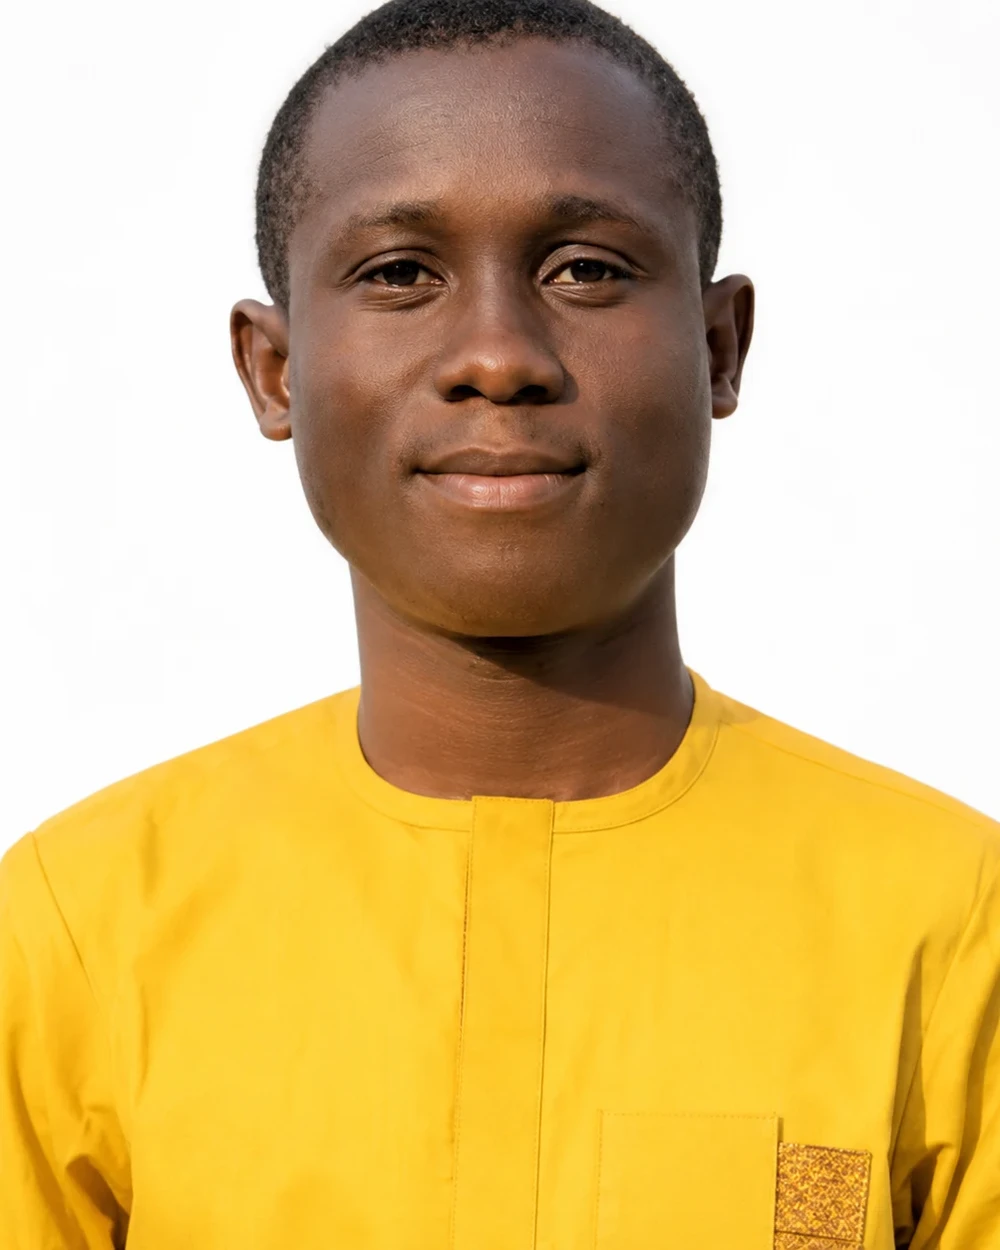
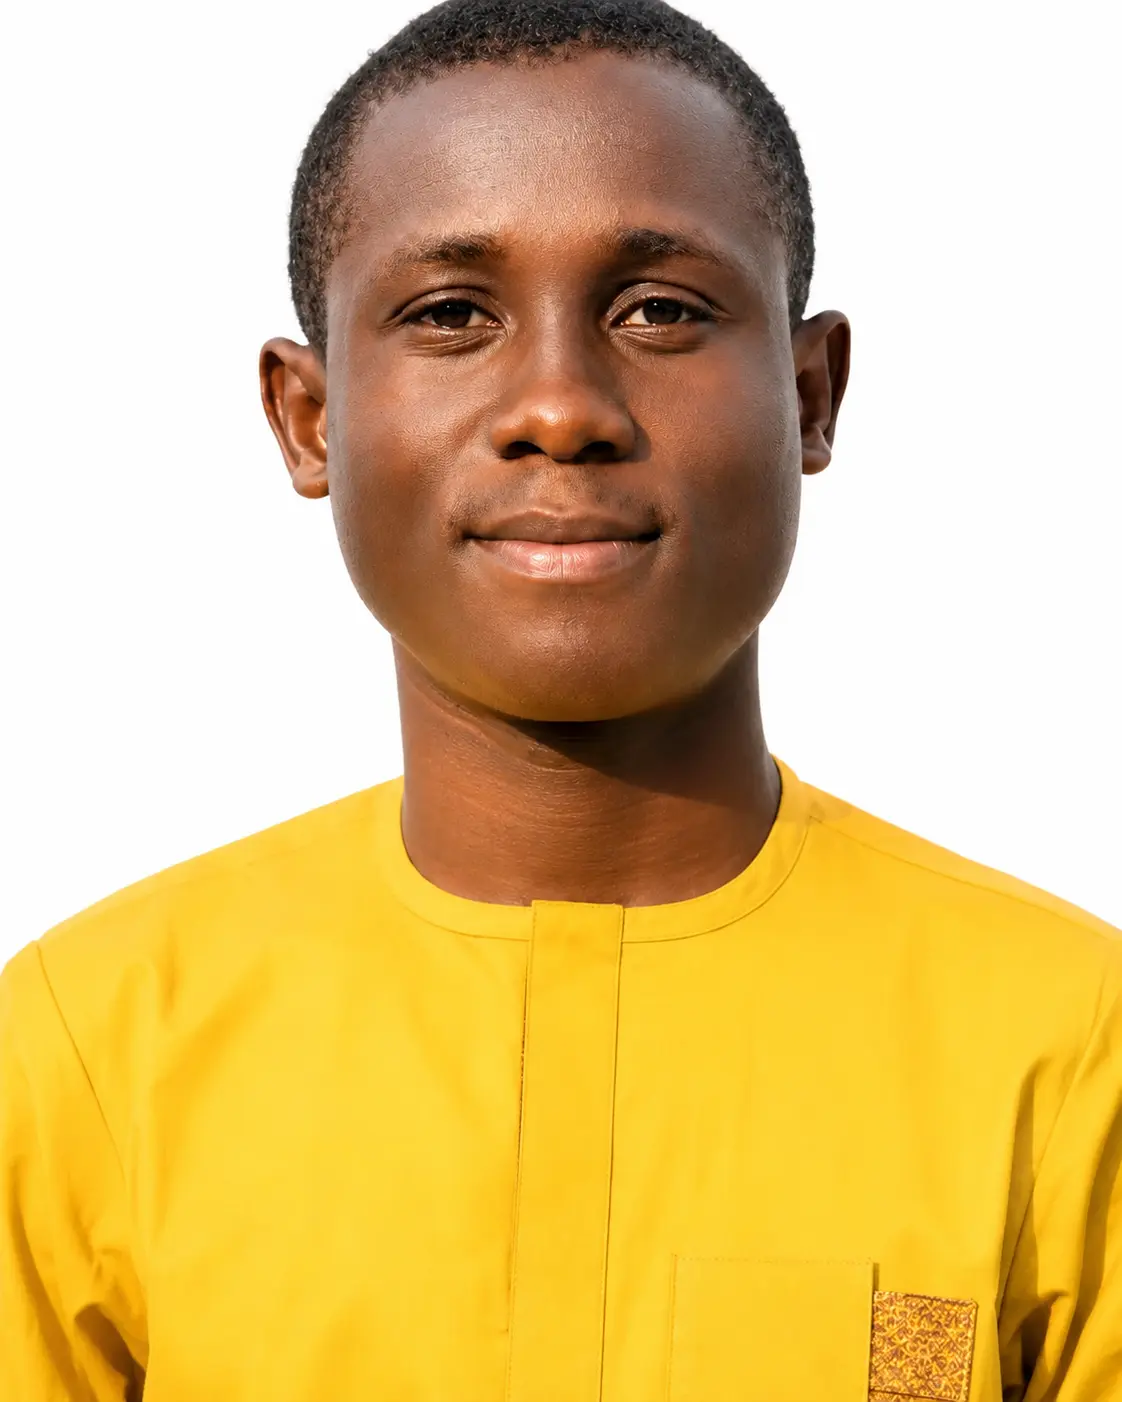
team update lastest

diff --git a/src/pages/About.tsx b/src/pages/About.tsx
@@ -17,21 +17,22 @@ const fadeUp = (delay = 0) => ({
 // TODO: Replace placeholder image (team_paul.webp) and bios with real team member details.
 const team = [
   {
-    name: "Engr. [Full Name]",
-    title: "Senior Structural Engineer",
-    image: "/images/webp/team_paul.webp",
+    name: "Engr. Jesuborn Obimba-Wogu",
+    title: "Geotechnical Engineer",
+    image: "/images/webp/Jesuborn.webp",
+    imagePosition: "center 10%",
     certs: ["COREN", "MNSE"],
-    specialty: "Structural Engineering",
-    bio: "Brings over 8 years of experience delivering structural designs for residential, commercial, and industrial projects across Nigeria. Specializes in reinforced concrete and steel structure design, with a strong focus on code compliance and constructability. Has contributed to several landmark KOA projects from concept through completion.",
+    specialty: "Geotechnical Engineering & Consultancy",
+    bio: "Jesuborn Obimba-Wogu is a Geotechnical Engineer with a B.Eng. in Civil Engineering and an M.Eng. in Soil and Geotechnical Engineering from Michael Okpara University of Agriculture, Umudike, plus an M.Eng. in Geomechanics from the University of Grenoble Alpes, France. He specializes in geotechnical investigation, soil mechanics, risk assessment, and engineering consultancy across KOA's structural and civil projects. He is a Member of the Nigerian Society of Engineers (MNSE) and a Registered Engineer (R. Eng.).",
   },
-  {
+   {
     name: "Engr. Christian Attai Idoko",
     title: "Structural & Quality Control Engineer",
-    image: "/images/webp/idoko1.webp",
+    image: "/images/webp/idoko.webp",
     imagePosition: "center 8%",
     certs: ["COREN", "NSE"],
     specialty: "Structural, Civil & Facade Engineering",
-    bio: "Engr. Christian Attai Idoko is a Structural Engineer and Quality Control Engineer with 6 years of experience specializing in structural works, façade installation, and fabrication. He brings hands-on expertise in project execution, quality assurance, and compliance with engineering standards and safety regulations. He holds a Bachelor of Engineering in Civil Engineering from the University of Agriculture, Makurdi, Nigeria (2020), and is certified with COREN and NSE.",
+    bio: "Engr. Christian Attai Idoko is a Structural Engineer and Quality Control Engineer with 6 years of experience specializing in structural works, façade installation, and fabrication. He brings hands-on expertise in project execution, quality assurance, and compliance with engineering standards and safety regulations across residential and commercial sites. He holds a Bachelor of Engineering in Civil Engineering from the University of Agriculture, Makurdi, Nigeria, and is certified with COREN and NSE.",
   },
   {
     name: "Patrick Amaibi",
@@ -40,7 +41,7 @@ const team = [
     imagePosition: "center 12%",
     certs: ["GMNSE", "MNIEE", "MIAENG"],
     specialty: "Civil & Environmental Engineering",
-    bio: "Patrick Amaibi is a Civil and Environmental Engineer with a B.Eng in Civil Engineering from the University of Port Harcourt, Nigeria (2021). He brings hands-on expertise in site supervision, reinforced concrete design, environmental compliance, groundwater assessment, and GIS analysis across KOA's civil and structural projects. He is a Graduate Member of the Nigerian Society of Engineers (GMNSE) and a Corporate Member of the Nigerian Institution of Environmental Engineers (MNIEE).",
+    bio: "Patrick Amaibi is a Civil and Environmental Engineer with a B.Eng in Civil & Environmental Engineering from the University of Port Harcourt, Nigeria. He brings hands-on expertise in site supervision, reinforced concrete design, environmental compliance, groundwater assessment, GIS analysis, and operations management across KOA's civil and structural projects. He is a Graduate Member of the Nigerian Society of Engineers (GMNSE) and a Corporate Member of the Nigerian Institution of Environmental Engineers (MNIEE).",
   },
 ];
 

diff --git a/src/pages/Legal.tsx b/src/pages/Legal.tsx
@@ -120,7 +120,7 @@ export function Legal() {
               For questions about these policies, to exercise your data rights, or to report a compliance concern, please contact us:
             </p>
             <p className="mb-2"><strong className="text-koa-dark">KOA Engineering</strong></p>
-            <p className="mb-2">No. 1 Rockview Street, Ushafa Bwari, FCT Abuja, Nigeria</p>
+            <p className="mb-2">Rockview Street, Ushafa Bwari, FCT Abuja, Nigeria</p>
             <p className="mb-2">
               <a href="mailto:info@koaengineering.com" className="text-koa-green underline">info@koaengineering.com</a>
             </p>

diff --git a/src/pages/Contact.tsx b/src/pages/Contact.tsx
@@ -218,10 +218,10 @@ export function Contact() {
                   <MapPin className="text-koa-accent shrink-0 mt-0.5" size={18} />
                   <div>
                     <p className="font-sans text-white/90 leading-relaxed">
-                      No.1 Rockview Street
-                      <br />
-                      Ushafa Bwari, FCT Abuja
-                      <br />
+                      Rockview Street,
+                      
+                      Ushafa Bwari, FCT Abuja,
+                      
                       Nigeria
                     </p>
                   </div>
